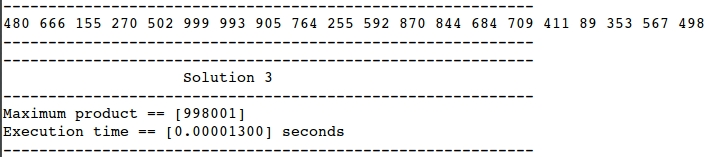
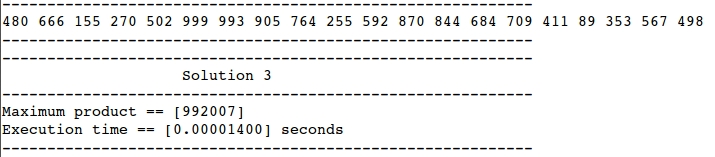
Changed the algo for solution 3

diff --git a/Chapter_3_Algorithms/3.3_Complexity_Of_Algorithms/Exercises/repo/source/source/inc/Solution_3.h b/Chapter_3_Algorithms/3.3_Complexity_Of_Algorithms/Exercises/repo/source/source/inc/Solution_3.h
@@ -13,10 +13,10 @@
  */
 
 // From first loop, n comparrions
-// From second loop, n comparrions
+// From second loop, n / 2 comparrions
 // From statement, 1 multiplication, 1 comaprission
-// Total Cost, n ^ 2 comparrisions, n ^ 2 multiplcation
-// Total Cost = 2 * (n ^ 2)
+// Total Cost, n ^ 2 comparrisions, n  / 2 multiplcation
+// Total Cost = (n ^ 2) / 2
 // Time complexity of this function is always O(n ^ 2).
 // Because regardless of n, or any thing it will always have
 // same cost and same instruction set every it will execute.

diff --git a/Chapter_3_Algorithms/3.3_Complexity_Of_Algorithms/Exercises/repo/source/source/src/Solution_3.cpp b/Chapter_3_Algorithms/3.3_Complexity_Of_Algorithms/Exercises/repo/source/source/src/Solution_3.cpp
@@ -11,7 +11,7 @@ int dc::Solution_3::max_product(const std::vector<int>& A) const {
     utility::maths::Maths<int> maths;
     int max = 0;
     for (std::size_t i = 0; i < A.size(); ++i)
-        for (std::size_t j = 0; j < A.size(); ++j)
+        for (std::size_t j = i + 1; j < A.size(); ++j)
             max = maths.max(A[i] * A[j], max);
     return max;
 }
